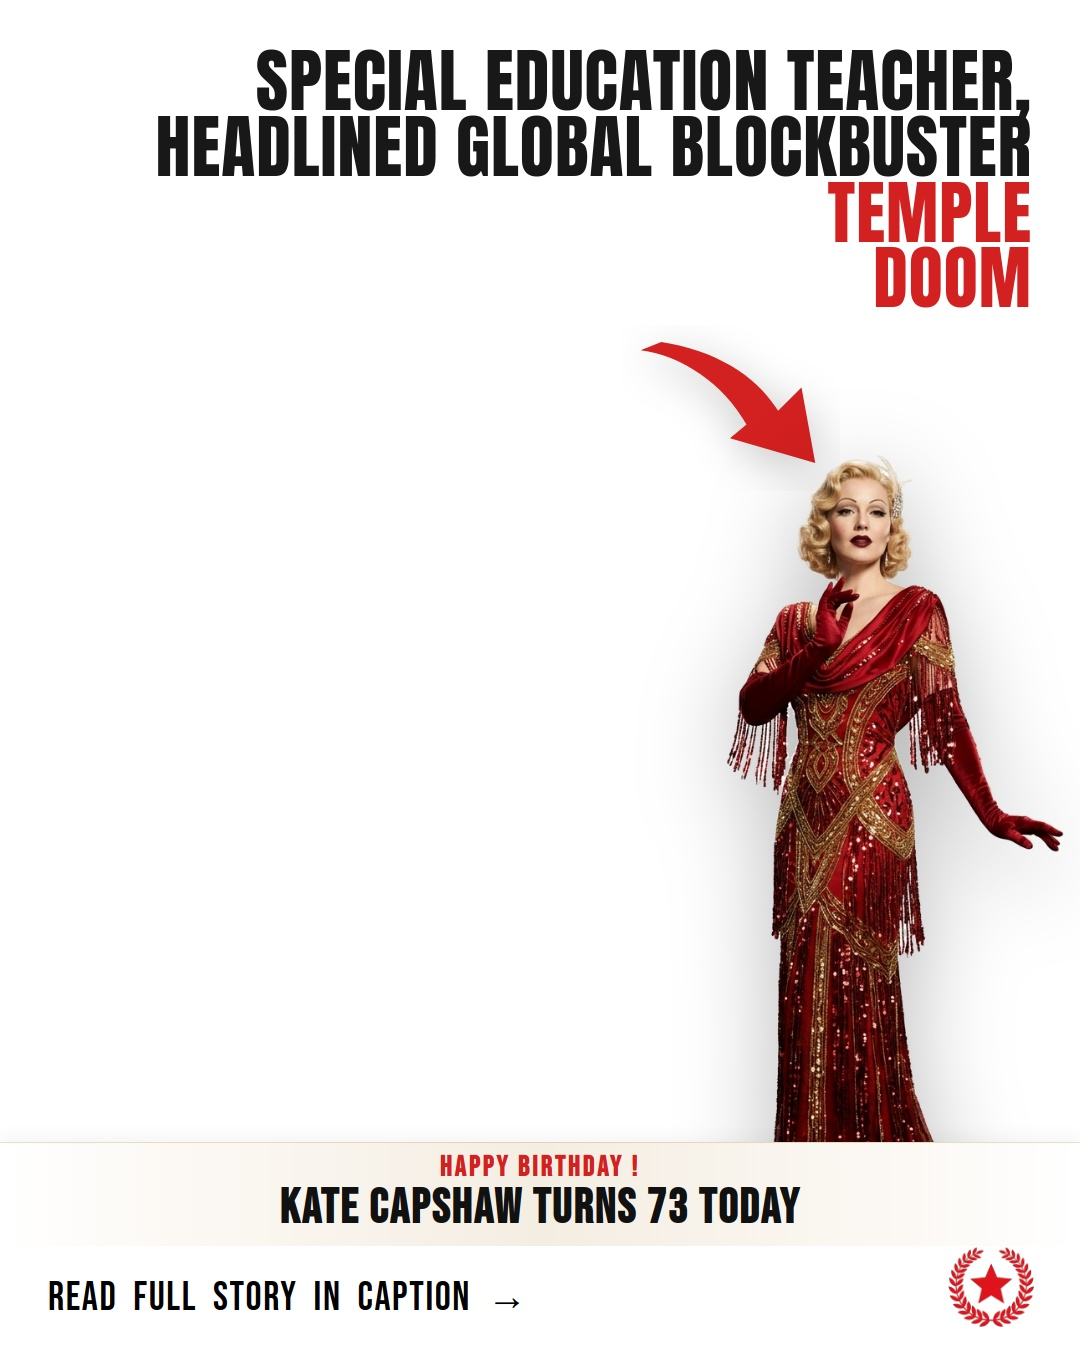
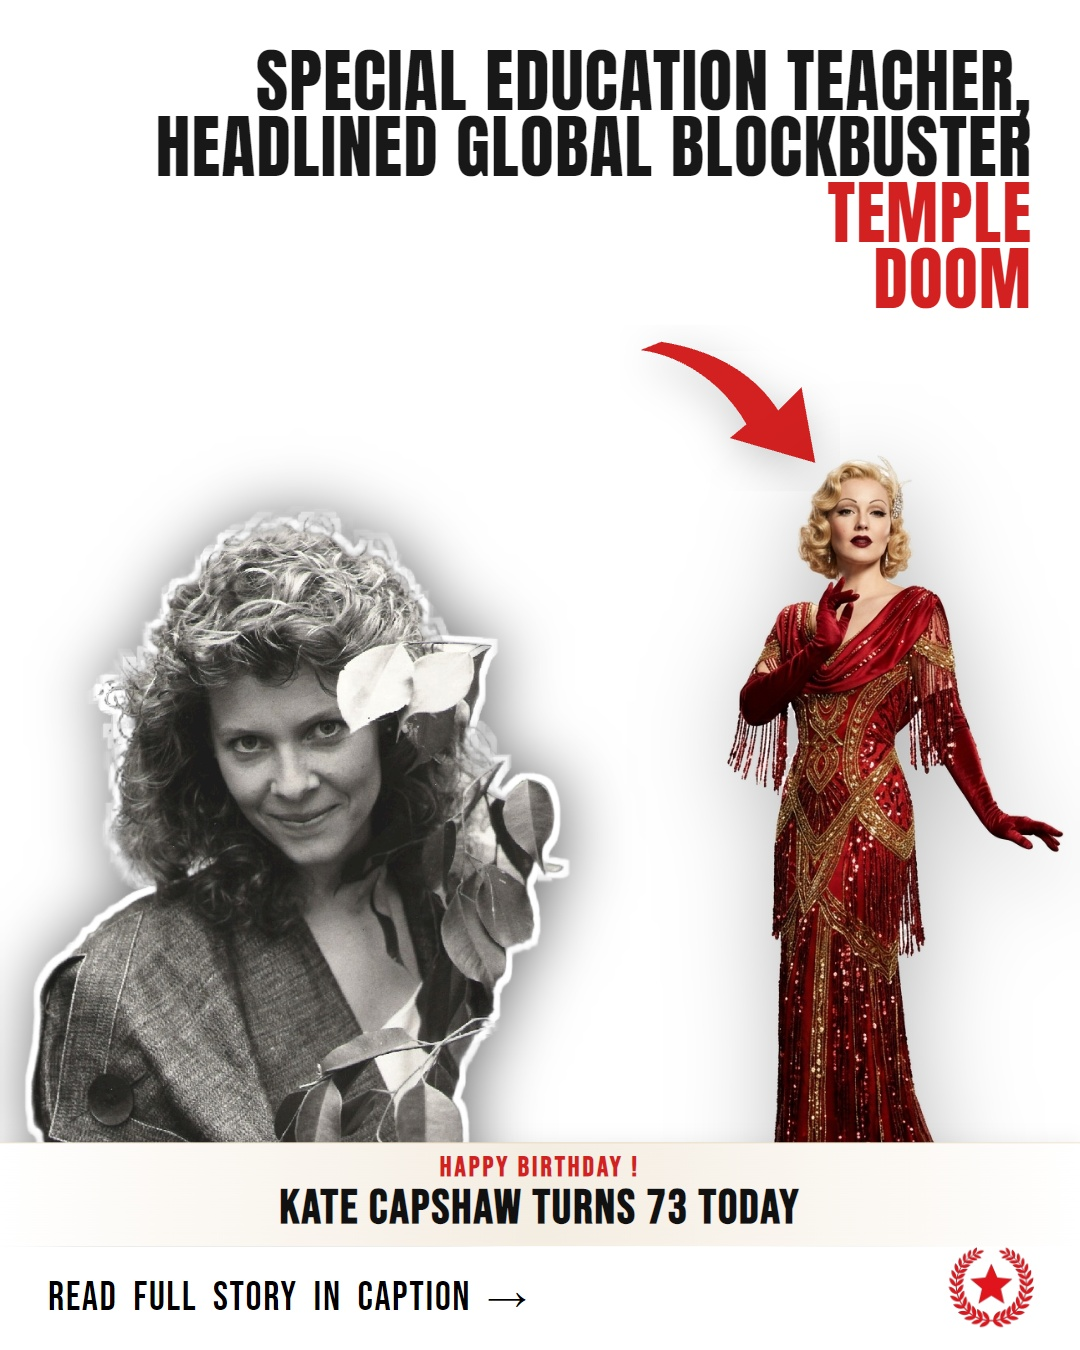
fix(collage): add multi-source secondary image fallback and reschedule Kate Capshaw photo post

diff --git a/scripts/build_collage_studio.js b/scripts/build_collage_studio.js
@@ -91,20 +91,49 @@ function getSSEResult(sseUrl) {
   });
 }
 
-function downloadBinary(urlStr, dest) {
+function downloadBinary(url, destPath, retries = 2, maxRedirects = 5) {
   return new Promise((resolve, reject) => {
-    const file = fs.createWriteStream(dest);
-    https.get(urlStr, res => {
-      if (res.statusCode >= 300 && res.statusCode < 400 && res.headers.location) {
-        return downloadBinary(res.headers.location, dest).then(resolve).catch(reject);
-      }
-      res.pipe(file);
-      file.on('finish', () => file.close(resolve));
-    }).on('error', reject);
+    try {
+      url = url.replace('https://media.themoviedb.org/', 'https://image.tmdb.org/');
+      url = url.replace('https://thumb.wikimedia.org/', 'https://upload.wikimedia.org/');
+      const parsed = new URL(url);
+      const client = parsed.protocol === 'http:' ? http : https;
+      const headers = {
+        'User-Agent': 'Mozilla/5.0 (Windows NT 10.0; Win64; x64) AppleWebKit/537.36 (KHTML, like Gecko) Chrome/120.0.0.0 Safari/537.36 BornTodayHollywoodBot/1.0',
+        'Accept': 'image/avif,image/webp,image/apng,image/svg+xml,image/*,*/*;q=0.8'
+      };
+
+      const req = client.get(url, { headers, timeout: 15000 }, res => {
+        if (res.statusCode >= 300 && res.statusCode < 400 && res.headers.location && maxRedirects > 0) {
+          const redirectUrl = new URL(res.headers.location, url).toString();
+          return resolve(downloadBinary(redirectUrl, destPath, retries, maxRedirects - 1));
+        }
+        if (res.statusCode === 429 && retries > 0) {
+          setTimeout(() => {
+            resolve(downloadBinary(url, destPath, retries - 1, maxRedirects));
+          }, 1500);
+          return;
+        }
+        if (res.statusCode !== 200) {
+          return reject(new Error(`Failed to download ${url}: HTTP ${res.statusCode}`));
+        }
+        const stream = fs.createWriteStream(destPath);
+        res.pipe(stream);
+        stream.on('finish', () => stream.close(resolve));
+        stream.on('error', (err) => {
+          try { fs.unlinkSync(destPath); } catch (e) {}
+          reject(err);
+        });
+      });
+      req.on('timeout', () => { req.destroy(); reject(new Error(`Timeout downloading ${url}`)); });
+      req.on('error', reject);
+    } catch (e) {
+      reject(e);
+    }
   });
 }
 
-// Ensure transparent cutout exists (download & call BRIA if needed)
+// Ensure transparent cutout exists (download & call ML if needed)
 async function ensureCutout(post, cleanSlug) {
   const localCutout = path.join(CUTOUTS_DIR, `${cleanSlug}_cutout.png`);
   if (fs.existsSync(localCutout) && fs.statSync(localCutout).size > 1000) {
@@ -113,7 +142,7 @@ async function ensureCutout(post, cleanSlug) {
   }
 
   // Also check numbered fallback in CUTOUTS_DIR
-  const files = fs.readdirSync(CUTOUTS_DIR);
+  const files = fs.existsSync(CUTOUTS_DIR) ? fs.readdirSync(CUTOUTS_DIR) : [];
   const match = files.find(f => f.toLowerCase().includes(cleanSlug.toLowerCase().split('_')[0]) && f.endsWith('_cutout.png'));
   if (match) {
     const p = path.join(CUTOUTS_DIR, match);
@@ -121,44 +150,75 @@ async function ensureCutout(post, cleanSlug) {
     return fs.readFileSync(p).toString('base64');
   }
 
-  const photoUrl = (post.photo_urls && post.photo_urls[0]) || null;
-  if (!photoUrl) {
-    console.warn(`    [!] No photo URL available for background removal.`);
-    return null;
+  // Collect candidate photos:
+  // 1. Check if temp_reel_assets already downloaded photos (from reel studio)
+  // 2. All URLs from post.photo_urls (primary TMDb, secondary Wikimedia / Wikipedia)
+  const candidateUrls = Array.isArray(post.photo_urls) ? [...post.photo_urls] : [];
+  const candidateLocalFiles = [];
+  
+  for (let i = 1; i <= 5; i++) {
+    const reelPhoto = path.join(BASE_DIR, 'temp_reel_assets', `${cleanSlug}_photo_${i}.jpg`);
+    if (fs.existsSync(reelPhoto) && fs.statSync(reelPhoto).size > 2000) {
+      candidateLocalFiles.push(reelPhoto);
+    }
   }
 
-  console.log(`    ✂ Invoking BRIA RMBG-1.4 background removal for ${post.celebrity_name}...`);
-  try {
-    const payload = {
-      data: [{ path: photoUrl, url: photoUrl, orig_name: `${cleanSlug}.jpg`, meta: { _type: 'gradio.FileData' } }]
-    };
-    const res = await postJSON('https://briaai-bria-rmbg-1-4.hf.space/gradio_api/call/run', payload);
-    if (res.body && res.body.event_id) {
-      const resultUrl = await getSSEResult(`https://briaai-bria-rmbg-1-4.hf.space/gradio_api/call/run/${res.body.event_id}`);
-      if (resultUrl) {
-        await downloadBinary(resultUrl, localCutout);
+  const { execSync } = require('child_process');
+
+  // Try candidate local files first
+  for (const localImg of candidateLocalFiles) {
+    try {
+      console.log(`    ✂ Removing background from local reel image: ${path.basename(localImg)}`);
+      try {
+        execSync(`python scripts/remove_background.py "${localImg}" "${localCutout}"`, { stdio: 'pipe' });
+      } catch (pyErr) {
+        execSync(`uv run python scripts/remove_background.py "${localImg}" "${localCutout}"`, { stdio: 'pipe' });
+      }
+      if (fs.existsSync(localCutout) && fs.statSync(localCutout).size > 1000) {
+        console.log(`    ✅ Local ML cutout generated: ${localCutout}`);
+        return fs.readFileSync(localCutout).toString('base64');
+      }
+    } catch (e) {}
+  }
+
+  // Try downloading candidate URLs (TMDb first, then Wikimedia fallback)
+  for (let i = 0; i < candidateUrls.length; i++) {
+    const photoUrl = candidateUrls[i];
+    const tempInput = path.join(BASE_DIR, 'assets', `${cleanSlug}_temp_${i}.jpg`);
+    try {
+      console.log(`    📥 Sourcing photo candidate ${i + 1}/${candidateUrls.length} for ${post.celebrity_name}...`);
+      await downloadBinary(photoUrl, tempInput);
+      if (!fs.existsSync(tempInput) || fs.statSync(tempInput).size < 1000) {
+        continue;
+      }
+
+      // Try local python background removal
+      try {
+        execSync(`python scripts/remove_background.py "${tempInput}" "${localCutout}"`, { stdio: 'pipe' });
+      } catch (pyErr) {
+        try {
+          execSync(`uv run python scripts/remove_background.py "${tempInput}" "${localCutout}"`, { stdio: 'pipe' });
+        } catch (uvErr) {}
+      }
+
+      if (fs.existsSync(tempInput)) fs.unlinkSync(tempInput);
+
+      if (fs.existsSync(localCutout) && fs.statSync(localCutout).size > 1000) {
         console.log(`    ✅ Background removed & saved to ${localCutout}`);
         return fs.readFileSync(localCutout).toString('base64');
       }
+    } catch (err) {
+      console.warn(`    [!] Photo candidate ${i + 1} processing error: ${err.message}`);
+      if (fs.existsSync(tempInput)) fs.unlinkSync(tempInput);
     }
-  } catch (err) {
-    console.warn(`    [!] BRIA background removal error (${err.message}). Trying local Python ML fallback.`);
   }
 
-  // Fallback to local Python rembg
-  const tempInput = path.join(BASE_DIR, 'assets', `${cleanSlug}_temp.jpg`);
-  try {
-    await downloadBinary(photoUrl, tempInput);
-    const { execSync } = require('child_process');
-    execSync(`python scripts/remove_background.py "${tempInput}" "${localCutout}"`, { stdio: 'inherit' });
-    if (fs.existsSync(tempInput)) fs.unlinkSync(tempInput);
-    if (fs.existsSync(localCutout)) {
-      console.log(`    ✅ Local ML cutout generated: ${localCutout}`);
-      return fs.readFileSync(localCutout).toString('base64');
+  // Absolute Fallback: If background removal failed on all sources, use the best local photo directly
+  for (const localImg of candidateLocalFiles) {
+    if (fs.existsSync(localImg) && fs.statSync(localImg).size > 1000) {
+      console.warn(`    ⚠ Using solid portrait fallback for ${cleanSlug} to prevent blank collage.`);
+      return fs.readFileSync(localImg).toString('base64');
     }
-  } catch (fallbackErr) {
-    console.warn(`    [!] Local ML fallback failed (${fallbackErr.message}).`);
-    if (fs.existsSync(tempInput)) fs.unlinkSync(tempInput);
   }
 
   return null;

diff --git a/scripts/remove_background.py b/scripts/remove_background.py
@@ -25,7 +25,7 @@ def remove_bg(input_path, output_path):
     output_image = remove(input_image)
     os.makedirs(os.path.dirname(os.path.abspath(output_path)), exist_ok=True)
     output_image.save(output_path, "PNG")
-    print(f"[✓] Background removed successfully: {output_path}")
+    print(f"[OK] Background removed successfully: {output_path}")
 
 if __name__ == "__main__":
     if len(sys.argv) < 3:
